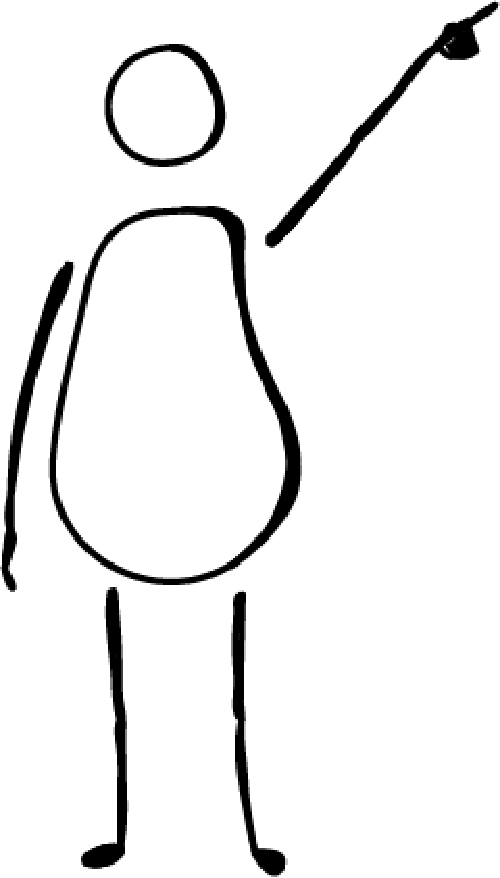
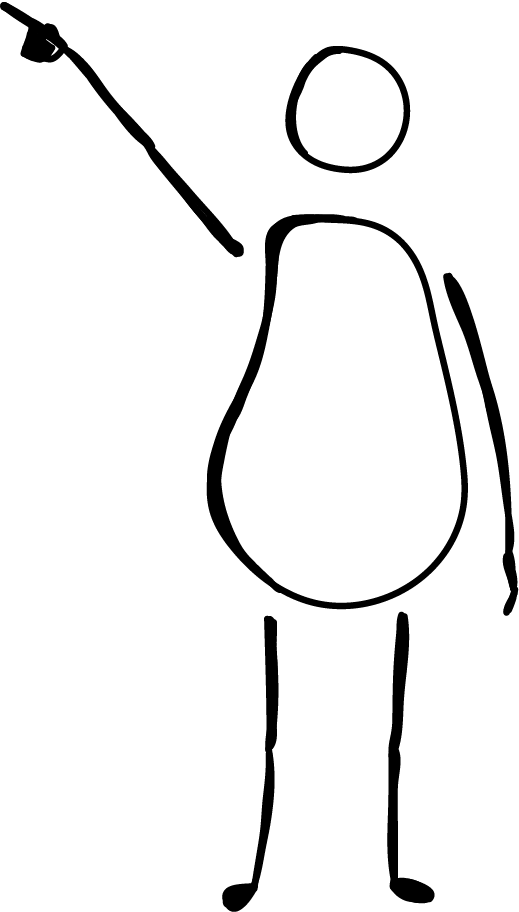
switched pointer img to balance L-side heaviness
also edited printer instructions according to outside feedback

Changed region(s): [[0.0, 0.0, 1.0, 1.0], [0.54, 0.6458, 0.84, 1.0], [0.78, 0.615, 0.84, 0.6458]]

diff --git a/docs/index.html b/docs/index.html
@@ -28,7 +28,7 @@
     <!-- intro -->
     <section class='introduction'>
       <h1 class='welc'>welcome to the<br/><strong>Body Language zine archive</strong></h1>
-      <img class='pointer' src='./images/bodyicon.png' alt='Figure standing underneath welcome text and pointing to it' height='150'/>
+      <img class='pointer' src='./images/bodyicon.png' alt='Figure standing underneath welcome text and pointing to it' height='160'/>
           <h2 class='intro-h2' id='main'>an introduction to the project:</h2>
           <p>Language fascinates me. So much of what we perceive to be foundational truths in our society are spoken or written into existence, then have their origins veiled with another few words: "It's always been this way."
           <p>But often, it hasn't. Often, in our human desire to make sense of our information dense world, we hastily categorize and label in ways that are more reductive than we'd care to admit.</p>
@@ -69,15 +69,15 @@
               <li>In Preview, make sure the printing orientation is set to "Landscape".</li>
               <li>Also in Preview, select "Scale to Fit" (then "Print Entire Image" from the scale to fit options) to ensure no words get cut off.</li>
               <li>In Layout, set the "Two-Sided" printing option to "Short-Edge binding".</li>
-              <li>This will print the zine pages in the order you need to staple it, with the cover at the bottom of the stack, and the middle pages at the top.
+              <li>This will print the zine pages in the order you need to staple it, with the front and back covers at the bottom of the stack, and the middle pages at the top.
             </ol>
           <h4>stapling instructions</h4>
             <div class='diagram-container'>
               <img src='./images/stapleHalf.png' alt='Diagram of stapling instructions for half page zine' height='230'/>
             </div>
             <ol>
-              <li>Fold stack of pages in half, matching short end to short end. The page with the front and back cover should be at the bottom of the stack, with the middle pages facing up (the right middle page should have a medication bottle illustration at the top).</li>
-              <li> Gently fold one side of the zine so that you are able to reach your stapler to the middle fold line. Put three staples along that main fold, at the top, middle, and bottom. Remove the stapler and smooth out any creases made by the stapler.</li>
+              <li>Fold stack of pages in half, matching short end to short end ("hamburger" style). The page with the front and back cover should be at the bottom of the stack, with the middle pages facing up (the right middle page should have a medication bottle illustration at the top).</li>
+              <li> Gently bend one side of the zine so that you are able to reach your stapler to the middle fold line. Put three staples along that main fold, at the top, middle, and bottom. Remove the stapler and smooth out any creases made by the stapler.</li>
               <li>Enjoy the zine.</li>
             </ol>
         <h3 id='full'>full-page version</h3>

diff --git a/docs/styles.css b/docs/styles.css
@@ -128,16 +128,17 @@ a:focus {
 
 .pointer {
   position: relative;
-  left: -11%;
+  left: 100%;
   bottom: 25px;
 }
+
 
 .intro-h2 {
   margin-top: -175px;
 }
 
 @media only screen and (max-width: 970px) {
-  .pointer {
+  .pointer, .reader {
     visibility: hidden;
   }
 }
